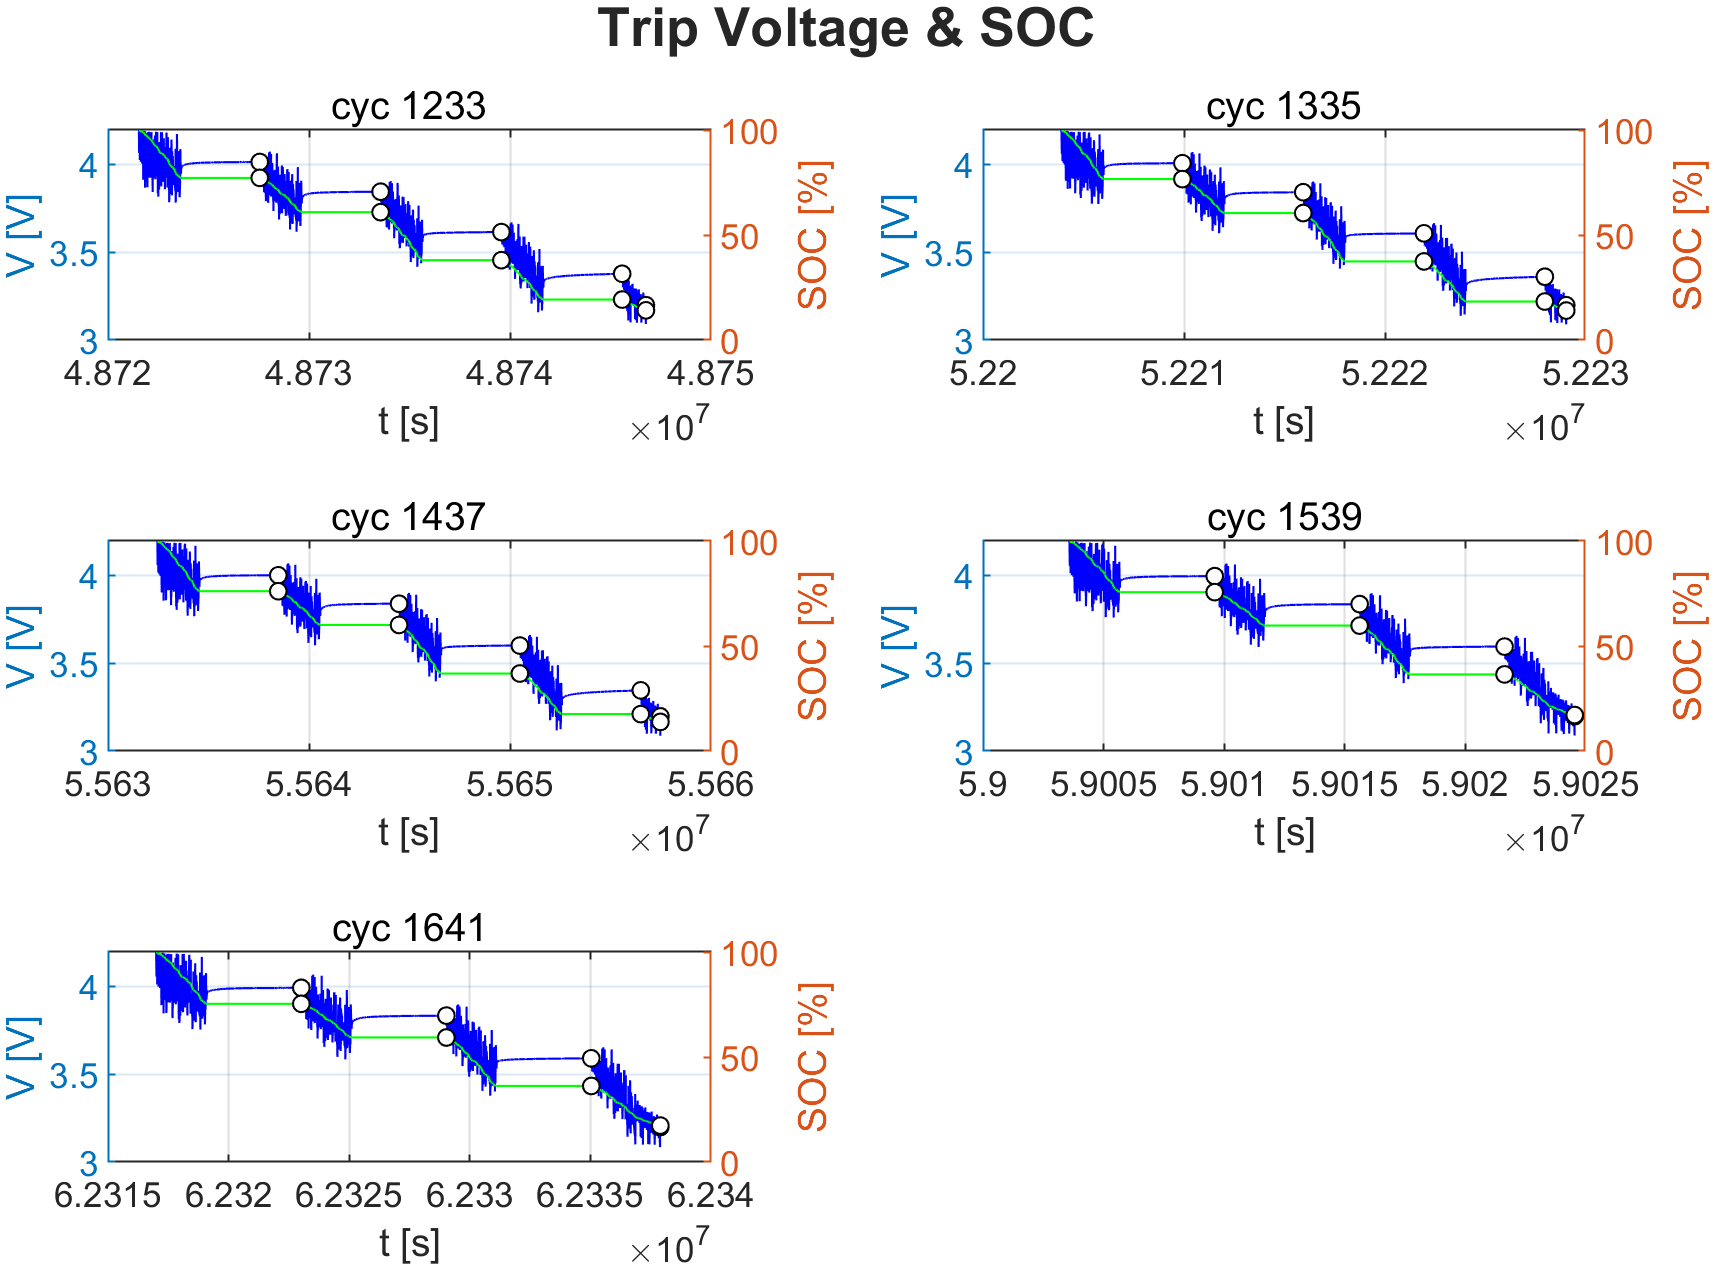
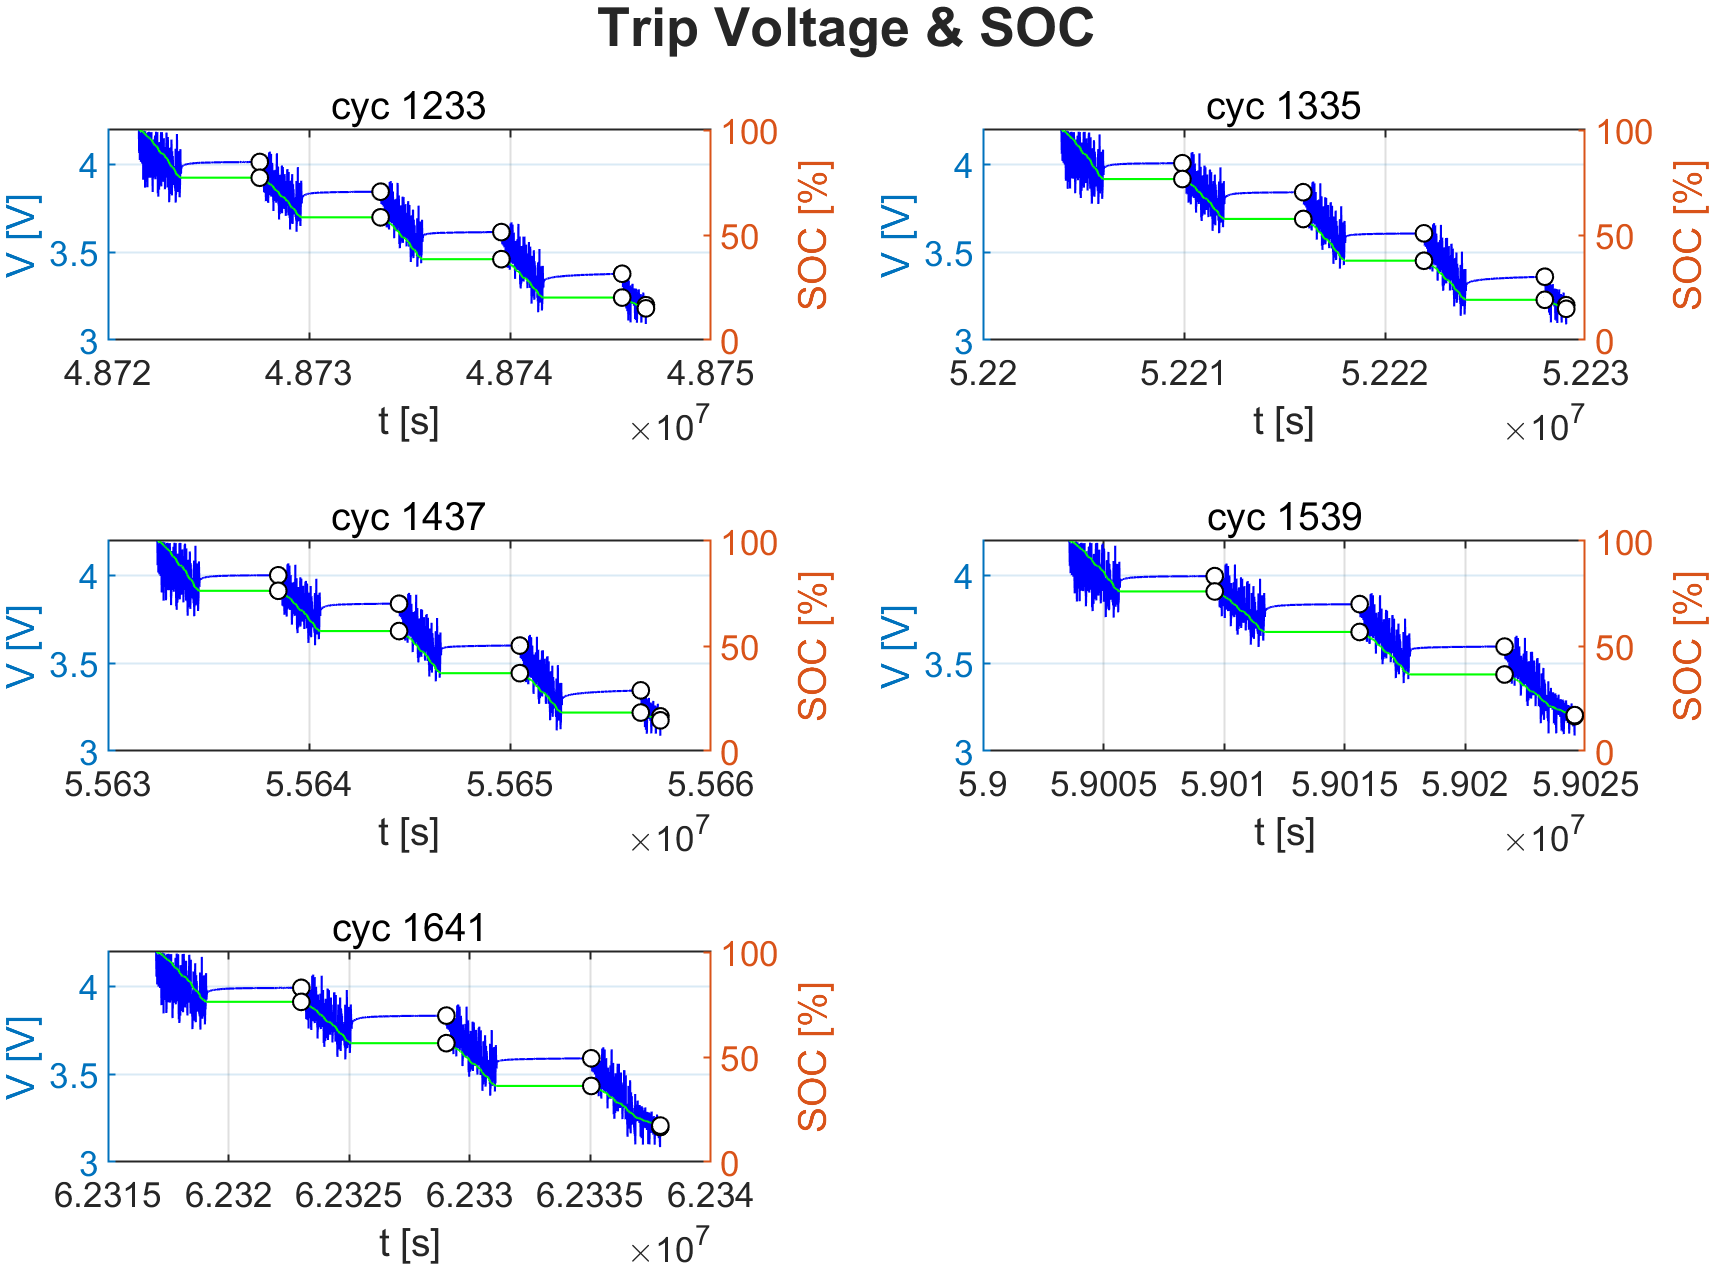
.
.

diff --git a/WC3/RUN_DRT_WC.m b/WC3/RUN_DRT_WC.m
@@ -15,7 +15,7 @@ clc; clear; close all;
 %% USER SETTINGS ----------------------------------------------------------
 n            = 201;        % θ-grid size
 tau_max      = 2e4;        % τ_max [s]
-lambda_hat   = 1.17;       % ℓ₂-regularisation
+lambda_hat   = 1.17 ; %1.17;       % ℓ₂-regularisation
 Q_batt_Ah    = 5;          % capacity [Ah]
 num_bs       = 100;        % bootstrap repeats (기본값)
 pkPromMin    = 1e-3;       % MinPeakProminence [Ω]
@@ -50,7 +50,7 @@ gamma_est  = {};   % γ̂
 RMSE_V     = {};   % 전압-RMSE
 
 %% 3) main loop -----------------------------------------------------------
-for c = 2 %:nCycles
+for c = 5 %:nCycles
     cyc = Results(c).cycle_num;
     fprintf('=== Cycle %d (index %d/%d) ===\n', cyc, c, nCycles);
 
@@ -185,11 +185,11 @@ for c = 2 %:nCycles
     end
 end
 
-%% 4) save ---------------------------------------------------------------
-DRTresults = Results;  
-save(fullfile(drtDir,'DRTresults.mat'), ...
-     'DRTresults','gamma_est','RMSE_V','-v7.3');
-
-fprintf('\n▶ 완료:  %s  에  DRTresults.mat 및 모든 그림 저장 완료\n', drtDir);
-disp('Run_DRT_from_Results: complete.');
+% %% 4) save ---------------------------------------------------------------
+% DRTresults = Results;  
+% save(fullfile(drtDir,'DRTresults.mat'), ...
+%      'DRTresults','gamma_est','RMSE_V','-v7.3');
+% 
+% fprintf('\n▶ 완료:  %s  에  DRTresults.mat 및 모든 그림 저장 완료\n', drtDir);
+% disp('Run_DRT_from_Results: complete.');
 

diff --git a/WC3/GenResults.m b/WC3/GenResults.m
@@ -141,7 +141,7 @@ for c = 1:nRes
 end
 
 %% 6a) C/2 스텝 용량(Ah) 계산 후 Results에 추가 -----------------------------
-nCap = 20;  % 앞 20개만
+nCap = length(ocvIdx) - 1;  % 앞 20개만
 if numel(c2Idx) < nCap, error('c2Idx가 %d개보다 적습니다.', nCap); end
 
 for k = 1:nCap
@@ -330,7 +330,7 @@ for figIdx=1:nFigs_SOC
 end
 
 %% 11) Trip 1-5 SOC 예시 출력 & 그래프 ------------------------------------
-cycShow = 1; maxShow = 6;
+cycShow = 3; maxShow = 6;
 fprintf('\n▼ Example: cycle %d, Trip 1-%d SOC summary\n', ...
         Results(cycShow).cycle_num, maxShow);
 fprintf(' Trip  SOC0   SOC1   ΔSOC    Q_trip[A·s]\n');
